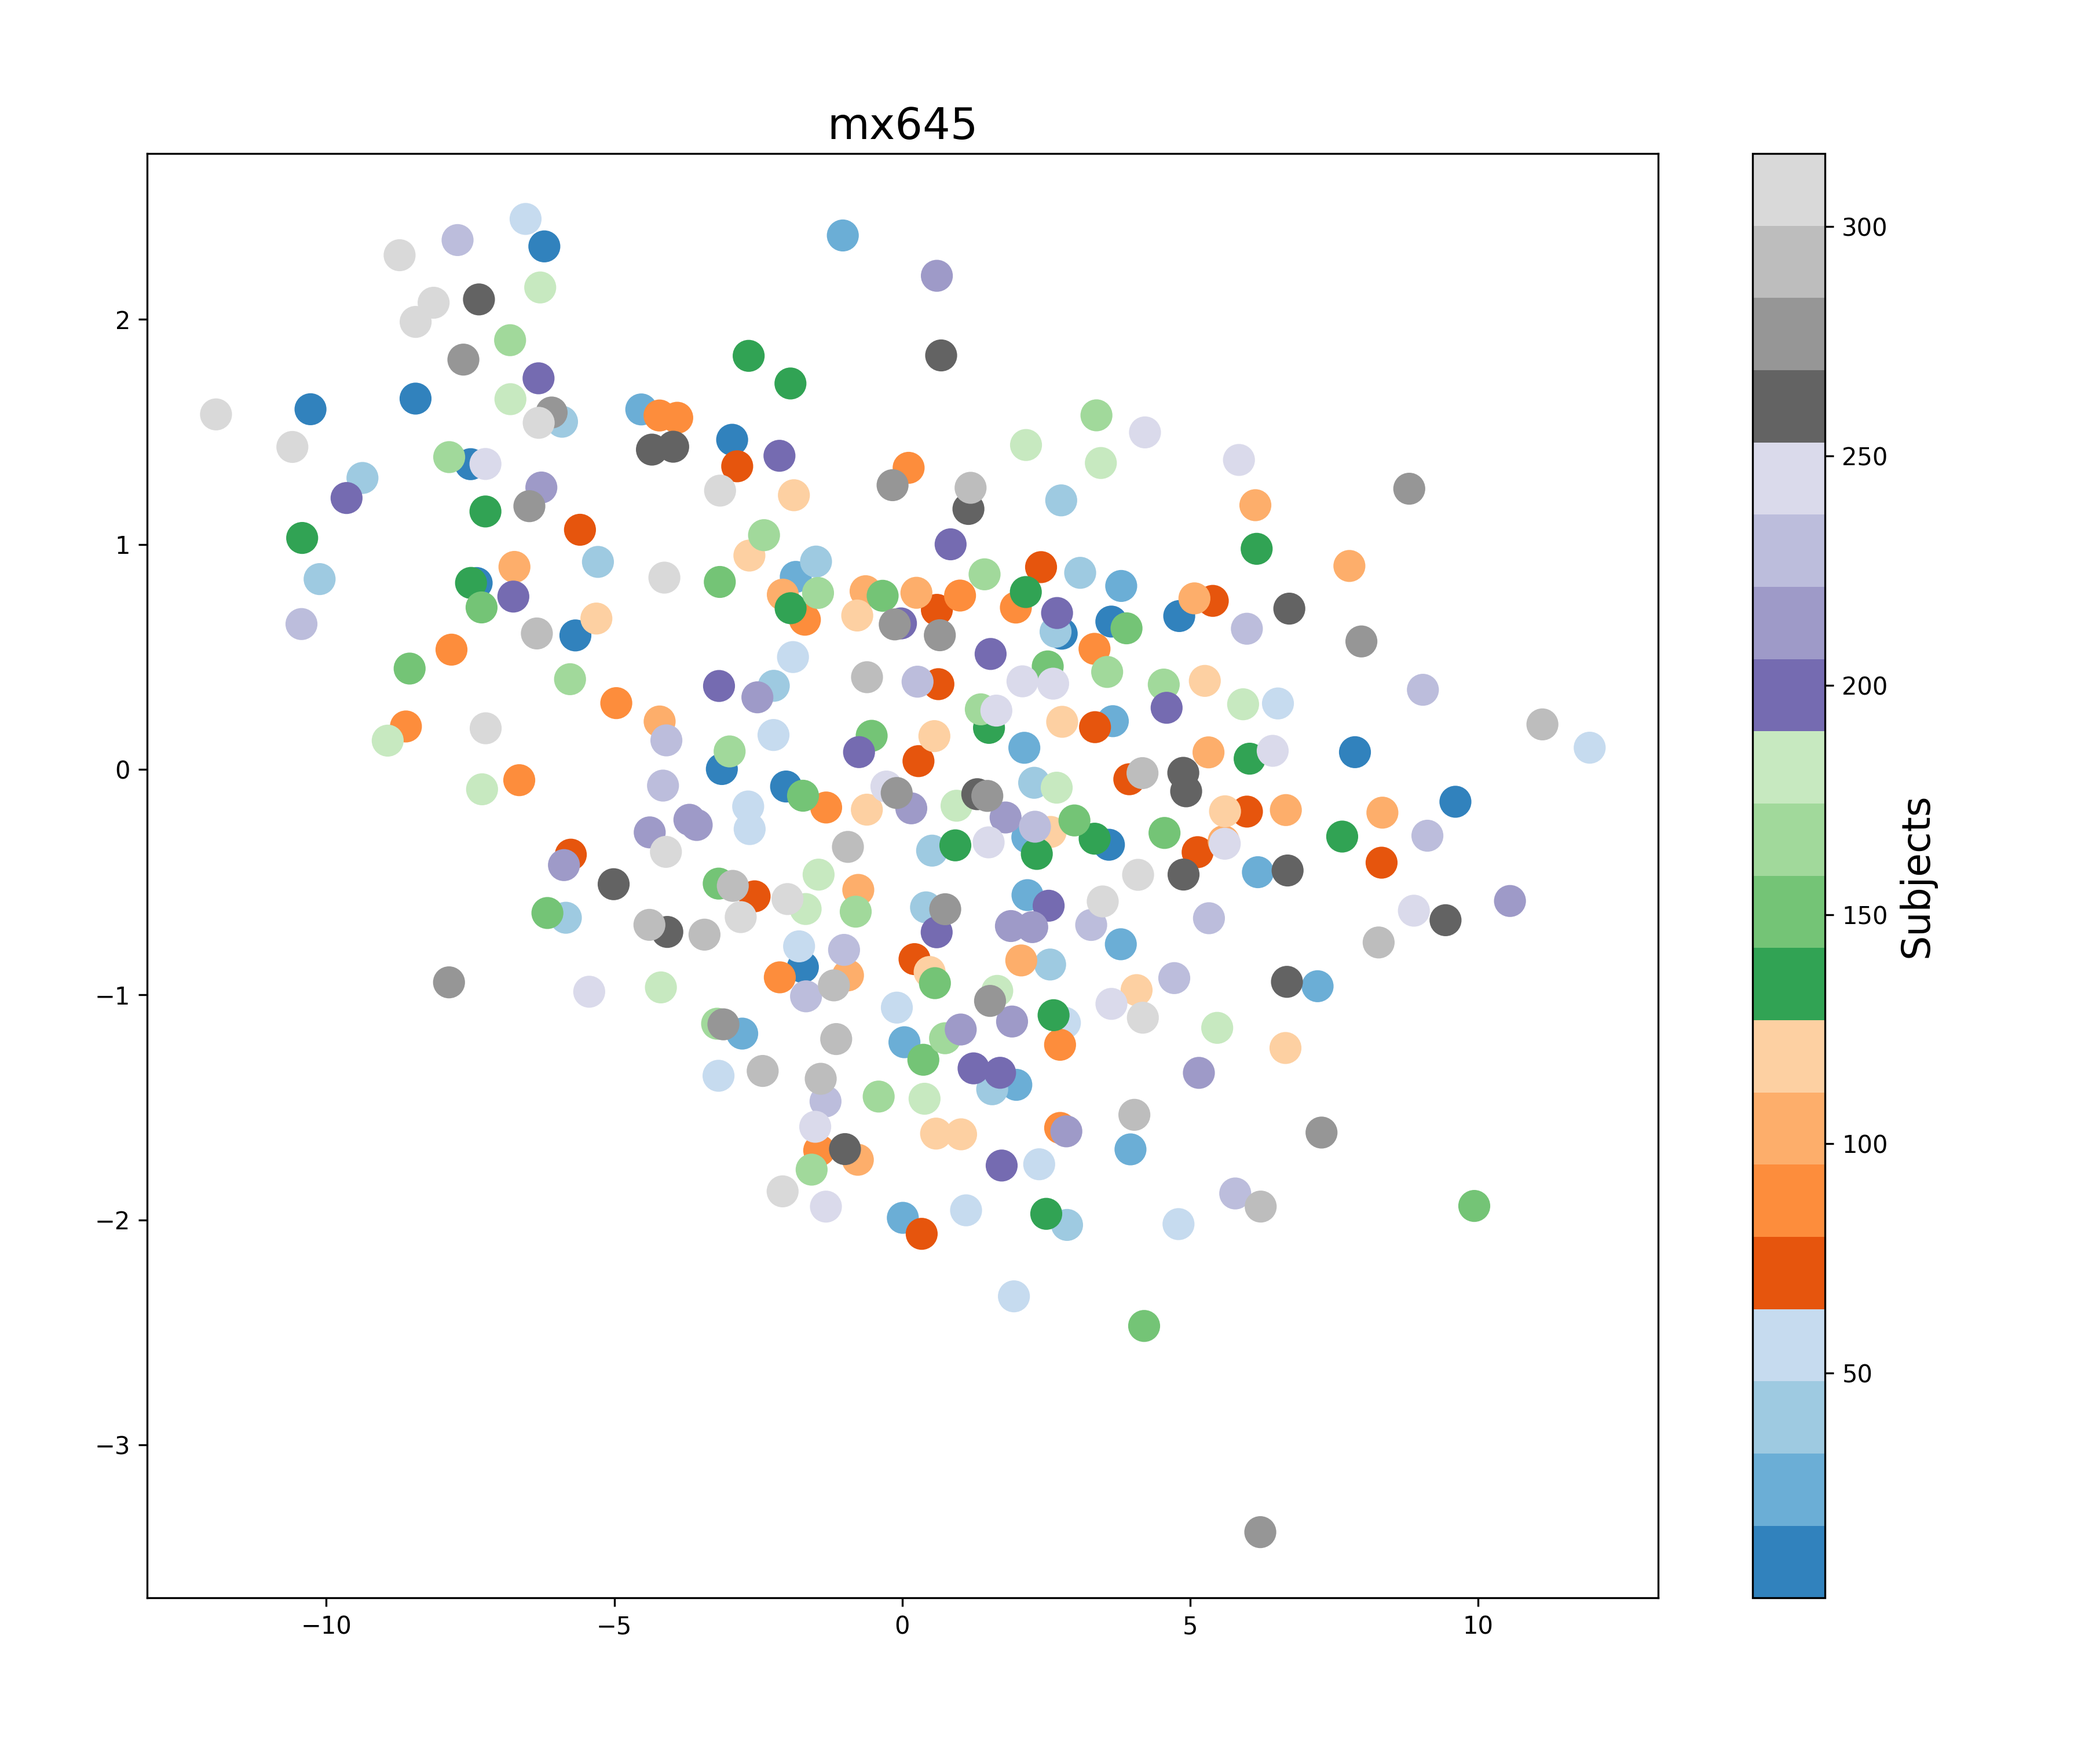
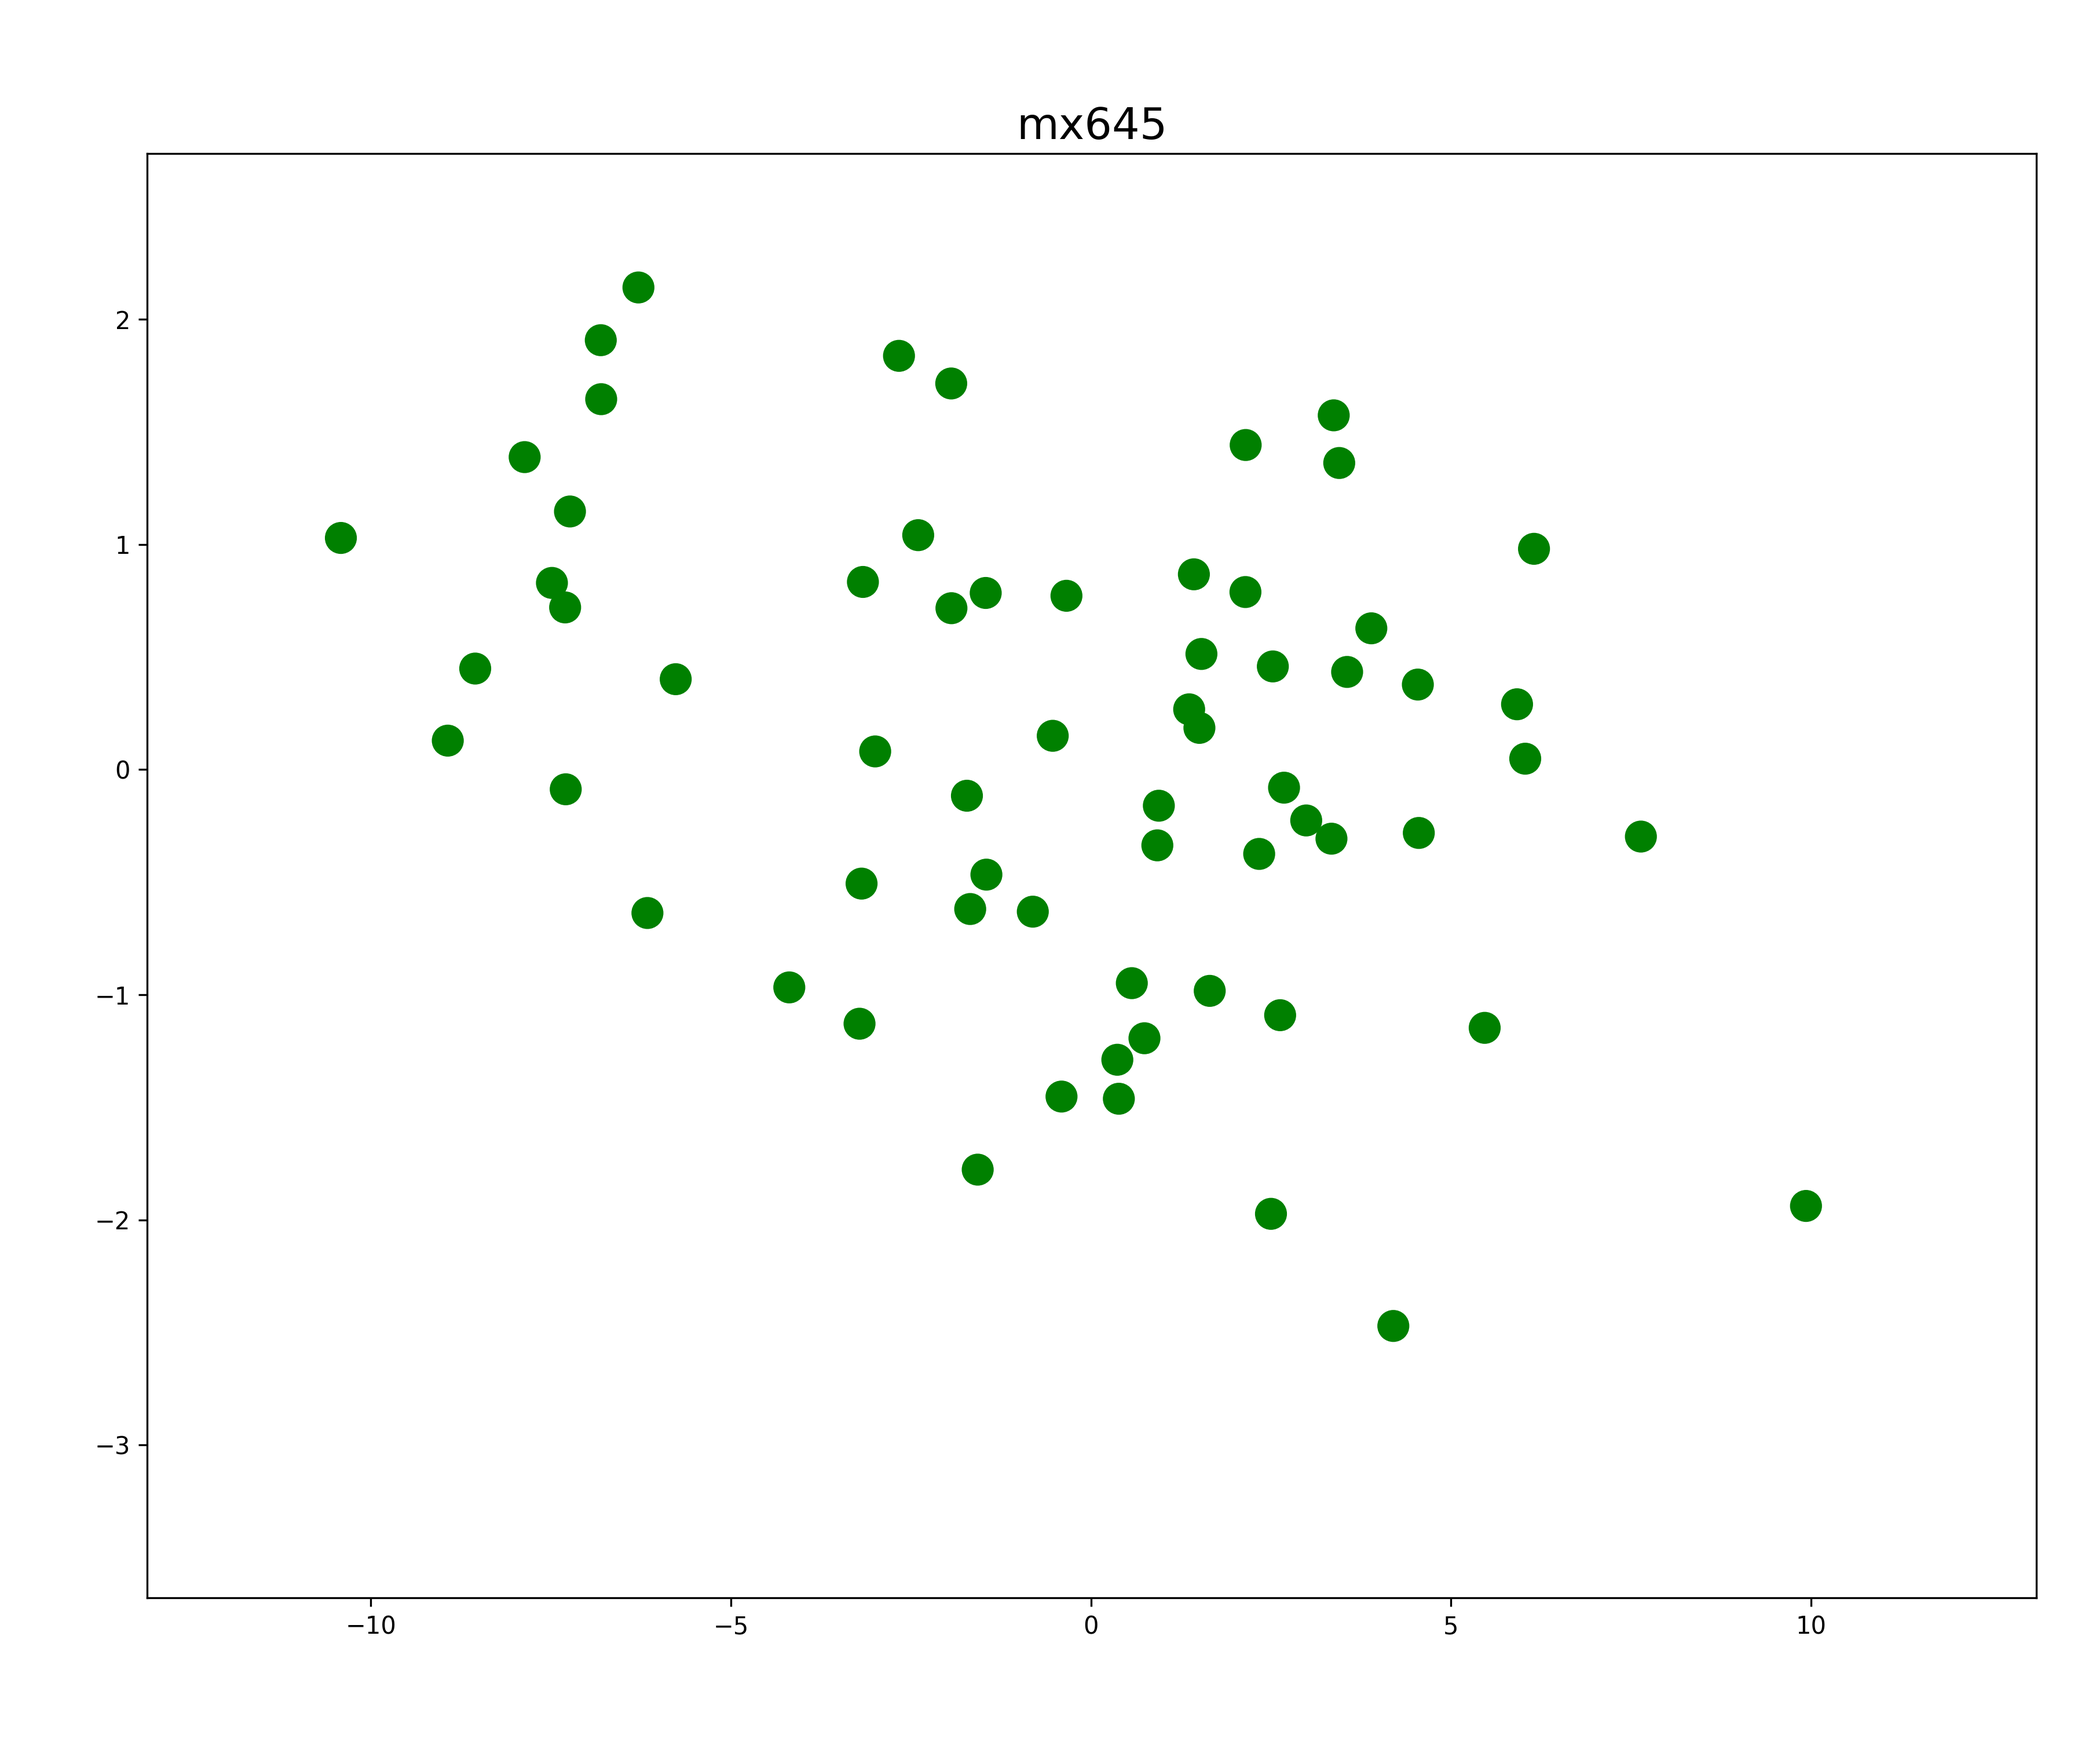
added green for mds

diff --git a/cluster_calculation.py b/cluster_calculation.py
@@ -205,18 +205,31 @@ def get_subjects_cluster_id(output_dir, mx_645_mds_path,
     print(f"Generated {adj_matrix_file}\n")
 
 
-def plot_mds(mds_matrix_file, title, image_name):
+def plot_mds(mds_matrix_file, title, image_name,
+             start_subject=1, end_subject=316):
     with open(mds_matrix_file) as fp:
         mds_matrix = np.array(json.load(fp))
     x = mds_matrix[:, 0]
     y = mds_matrix[:, 1]
     ax = plt.subplot(1, 1, 1)
     color = [i for i in range(1, 317)]
+    show_colorbar = True
+    if start_subject != 1:
+        # x = x[start_subject-1:end_subject]
+        # y = y[start_subject-1:end_subject]
+        color = []
+        for i in range(316):
+            if start_subject <= i <= end_subject:
+                color.append("green")
+            else:
+                color.append('#0f0f0f00')
+        show_colorbar = False
     mappable = ax.scatter(x, y, label=title, c=color, cmap="tab20c", s=150)
     ax.set_title(title, fontsize=18)
     plt.tight_layout()
-    cbar = plt.colorbar(mappable)
-    cbar.set_label("Subjects", fontsize=16)
+    if show_colorbar:
+        cbar = plt.colorbar(mappable)
+        cbar.set_label("Subjects", fontsize=16)
     plt.gcf().set_size_inches(12, 10)
     plt.savefig(image_name, dpi=300)
     plt.close()
@@ -239,29 +252,30 @@ def main(output_dir="output"):
     mx_1400_mds_ws = f"{output_dir}/mds_mx1400_ws.json"
     std_2500_mds_ws = f"{output_dir}/mds_std2500_ws.json"
 
-    cluster_summary = generate_kmeans_clusters(mx_645_mds_ws,
-                                               mx_1400_mds_ws,
-                                               std_2500_mds_ws,
-                                               output_dir, distance="ws",
-                                               single_figure=False)
-    print(f"Number of clusters in 3 cohorts: {cluster_summary}")
-
-    get_subjects_cluster_id(output_dir, mx_645_mds_ws,
-                            mx_1400_mds_ws, std_2500_mds_ws)
-
+    # cluster_summary = generate_kmeans_clusters(mx_645_mds_ws,
+    #                                            mx_1400_mds_ws,
+    #                                            std_2500_mds_ws,
+    #                                            output_dir, distance="ws",
+    #                                            single_figure=False)
+    # print(f"Number of clusters in 3 cohorts: {cluster_summary}")
+    #
+    # get_subjects_cluster_id(output_dir, mx_645_mds_ws,
+    #                         mx_1400_mds_ws, std_2500_mds_ws)
 
     title = f'mx645'
     image_name = f"{output_dir}/{output_dir}_{title}_mds_color.png"
-    plot_mds(mx_645_mds_ws, title, image_name)
+    plot_mds(mx_645_mds_ws, title, image_name, start_subject=126,
+             end_subject=189)
 
     title = f'mx1400'
     image_name = f"{output_dir}/{output_dir}_{title}_mds_color.png"
-    plot_mds(mx_1400_mds_ws, title, image_name)
+    plot_mds(mx_1400_mds_ws, title, image_name, start_subject=126,
+             end_subject=189)
 
     title = f'std2500'
     image_name = f"{output_dir}/{output_dir}_{title}_mds_color.png"
-    plot_mds(std_2500_mds_ws, title, image_name)
-
+    plot_mds(std_2500_mds_ws, title, image_name, start_subject=126,
+             end_subject=189)
 
 
 if __name__ == "__main__":
